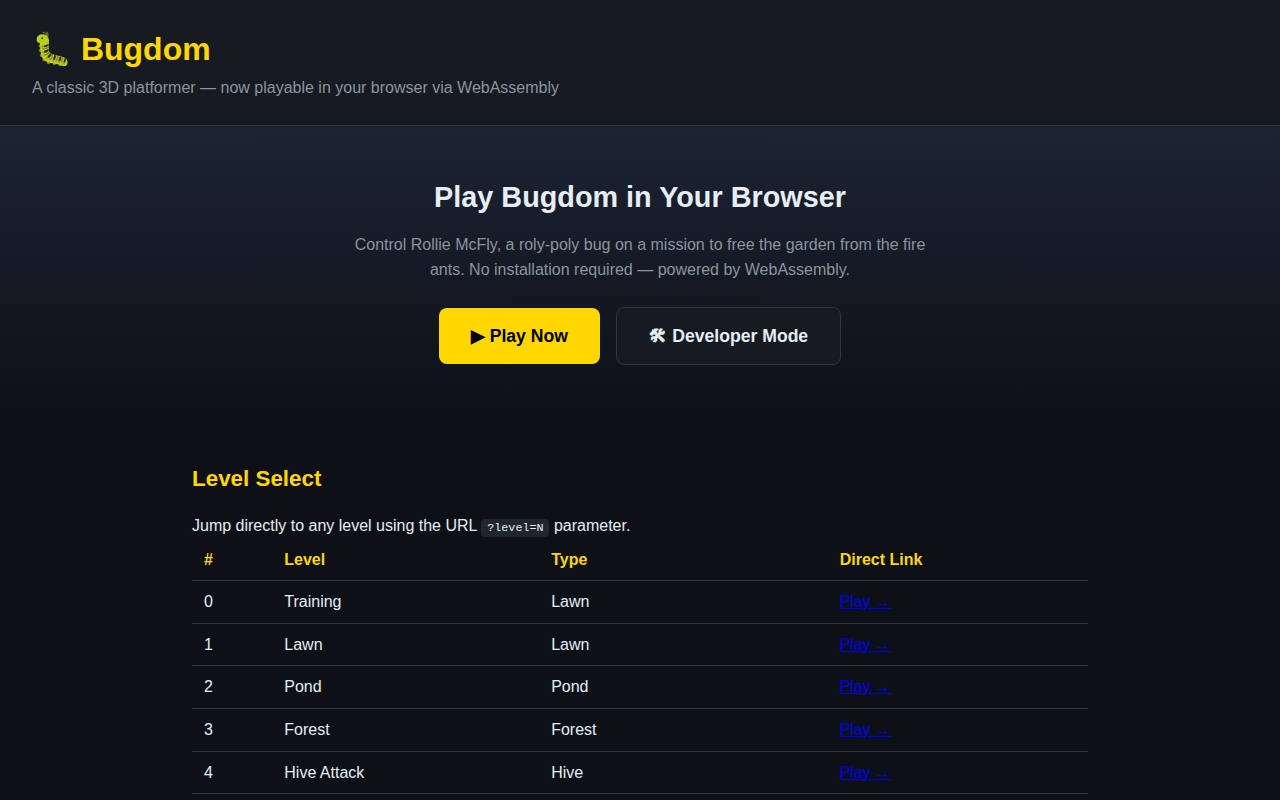
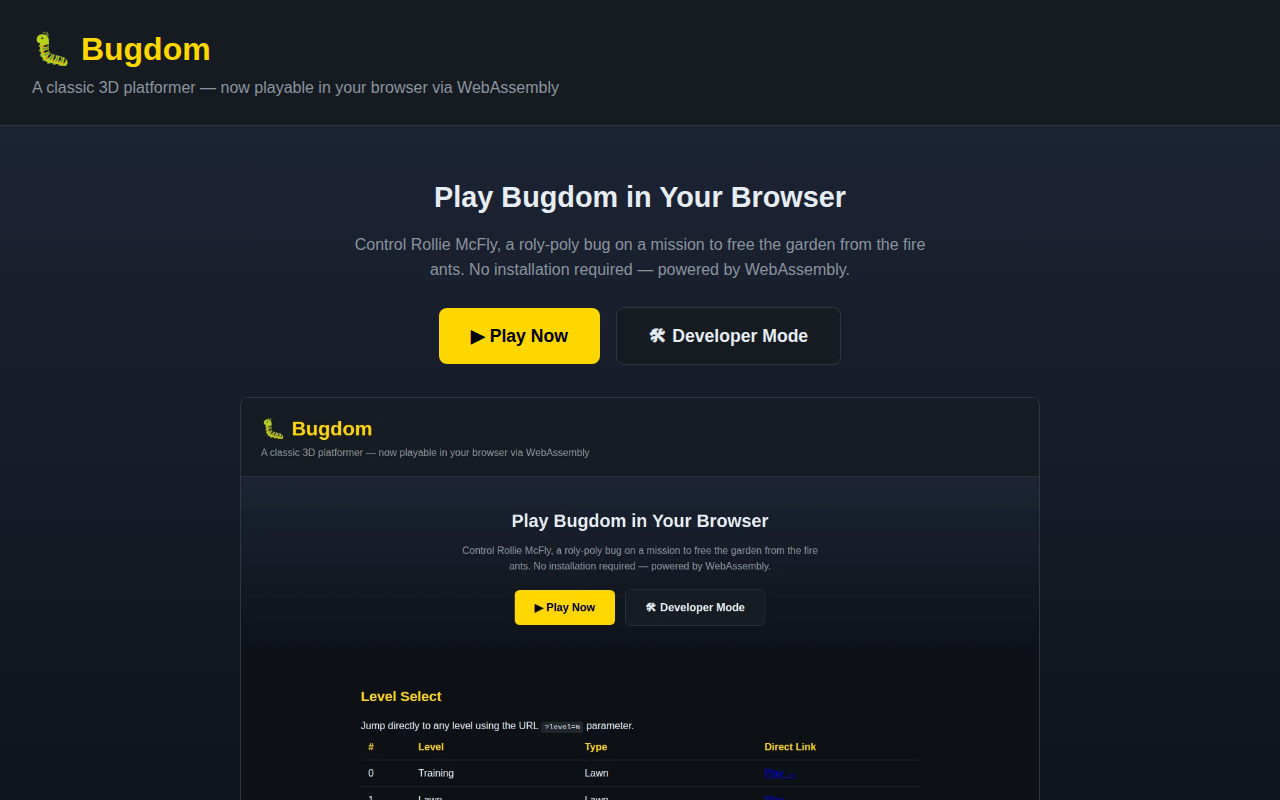
Separate CI/CD into build-wasm.yml and build-android-apk.yml; fix broken docs images; update tests

diff --git a/tests/test_monorepo_metadata.py b/tests/test_monorepo_metadata.py
@@ -194,6 +194,55 @@ class MonorepoMetadataTests(unittest.TestCase):
         self.assertTrue((wrapper_root / "gradlew").exists())
         self.assertTrue((wrapper_root / "gradle" / "wrapper" / "gradle-wrapper.jar").exists())
 
+    def test_separate_wasm_and_apk_workflow_files_exist(self):
+        """Separate CI pipelines: build-wasm.yml (WASM + Pages) and build-android-apk.yml (APK only)."""
+        workflows_dir = ports.ROOT / ".github" / "workflows"
+
+        wasm_wf = workflows_dir / "build-wasm.yml"
+        self.assertTrue(wasm_wf.exists(), "build-wasm.yml must exist as the dedicated WASM pipeline")
+
+        apk_wf = workflows_dir / "build-android-apk.yml"
+        self.assertTrue(apk_wf.exists(), "build-android-apk.yml must exist as the dedicated APK pipeline")
+
+    def test_wasm_workflow_deploys_pages_only_on_main(self):
+        """The WASM workflow must deploy Pages only on main/master, not on every tag or dispatch."""
+        wasm_wf = (ports.ROOT / ".github" / "workflows" / "build-wasm.yml").read_text(encoding="utf-8")
+
+        # Must contain a deploy-pages job that depends on build-wasm
+        self.assertIn("deploy-pages", wasm_wf, "build-wasm.yml must have a deploy-pages job")
+        # The deploy-pages job must be gated to main/master (not all tags)
+        self.assertIn("refs/heads/main", wasm_wf, "deploy-pages must check for refs/heads/main")
+        self.assertIn("refs/heads/master", wasm_wf, "deploy-pages must check for refs/heads/master")
+
+    def test_apk_workflow_does_not_trigger_pages_deploy(self):
+        """The APK workflow must not contain any Pages deployment logic."""
+        apk_wf = (ports.ROOT / ".github" / "workflows" / "build-android-apk.yml").read_text(encoding="utf-8")
+        self.assertNotIn("deploy-pages", apk_wf, "build-android-apk.yml must not deploy Pages")
+        self.assertNotIn("actions/deploy-pages", apk_wf, "build-android-apk.yml must not use deploy-pages action")
+
+    def test_session7_screenshots_present(self):
+        """Session-7 screenshots directory must contain skip-to-level and level shots for all 8 games."""
+        shots_dir = ports.ROOT / "docs" / "screenshots" / "session-7"
+        self.assertTrue(shots_dir.exists(), "docs/screenshots/session-7/ must exist")
+
+        expected_skip = [
+            "billyfrontier_skip_to_level.png",
+            "bugdom_skip_to_level.png",
+            "bugdom2_skip_to_level.png",
+            "cromagnrally_skip_to_level.png",
+            "mightymike_skip_to_level.png",
+            "nanosaur_skip_to_level.png",
+            "nanosaur2_skip_to_level.png",
+            "ottomatic_skip_to_level.png",
+        ]
+        for fname in expected_skip:
+            with self.subTest(file=fname):
+                self.assertTrue((shots_dir / fname).exists(), f"Missing skip-to-level screenshot: {fname}")
+
+        # At least 24 level screenshots must be present (3 per game × 8 games)
+        png_files = [f for f in shots_dir.iterdir() if f.suffix == ".png" and "skip_to_level" not in f.name]
+        self.assertGreaterEqual(len(png_files), 24, f"Expected ≥24 level screenshots, found {len(png_files)}")
+
 
 if __name__ == "__main__":
     unittest.main()

diff --git a/docs/screenshots/session-7/README.md b/docs/screenshots/session-7/README.md
@@ -1,0 +1,76 @@
+# Session 7 — 2026-03-09T01:14:24Z
+
+## Summary
+
+This session:
+1. Split the CI/CD pipeline into separate workflows for WASM builds and Android APK builds.
+2. Fixed visual errors in docs pages (missing `screenshot.webp`/`screenshot.png` references).
+3. Captured 'skip to level' screenshots and 3-level screenshots for all 8 games (32 total).
+
+## CI/CD Pipeline Changes
+
+### New workflows
+
+- **`.github/workflows/build-wasm.yml`** — Builds all 8 WASM targets. Deploys to GitHub
+  Pages automatically when **all** WASM builds succeed on `main`/`master`. Also supports
+  publishing WASM `.zip` artifacts to a GitHub release when triggered by a tag or manual dispatch.
+- **`.github/workflows/build-android-apk.yml`** — Builds Bugdom 2 Android APKs (`assembleDebug`
+  + `assembleRelease`). Only runs if the `android_apk` matrix is non-empty (currently only Bugdom 2
+  has a checked-in Gradle project). Supports publishing APKs to a GitHub release on tag/dispatch.
+
+### Updated workflow
+
+- **`.github/workflows/build-and-release.yml`** — Converted to legacy/manual-only combined
+  workflow (`workflow_dispatch` only, no automatic push triggers). The two dedicated workflows
+  above are the primary pipelines going forward.
+
+## Visual Error Fixes
+
+The following docs pages referenced missing hero images that showed as broken:
+
+| File fixed | Image added |
+|-----------|-------------|
+| `games/BillyFrontier-Android/docs/index.html` | `docs/screenshot.webp` (from skip-to-level shot) |
+| `games/Bugdom-android/docs/index.html` | `docs/screenshot.webp` (from skip-to-level shot) |
+| `games/CroMagRally-Android/docs/index.html` | `docs/screenshot.webp` (from skip-to-level shot) |
+| `games/Nanosaur-android/docs/index.html` | `docs/screenshot.png` (from skip-to-level shot) |
+
+## Screenshots (32 total)
+
+### Skip-to-level pages (1 per game = 8 total)
+Full-page screenshots of each game's `docs/index.html` skip-to-level UI.
+
+| File | Game |
+|------|------|
+| `billyfrontier_skip_to_level.png` | Billy Frontier |
+| `bugdom_skip_to_level.png` | Bugdom |
+| `bugdom2_skip_to_level.png` | Bugdom 2 |
+| `cromagnrally_skip_to_level.png` | Cro-Mag Rally |
+| `mightymike_skip_to_level.png` | Mighty Mike |
+| `nanosaur_skip_to_level.png` | Nanosaur |
+| `nanosaur2_skip_to_level.png` | Nanosaur 2 (hub page, Nanosaur 2 tab) |
+| `ottomatic_skip_to_level.png` | Otto Matic (hub page, Otto Matic tab) |
+
+### Level screenshots (3 per game = 24 total)
+Each shows the docs page scrolled to show level-specific content.
+
+| Files | Game | Content shown |
+|-------|------|-------------|
+| `billyfrontier_lv0/2/4.png` | Billy Frontier | Hero/header, Level Editor Integration, JavaScript API |
+| `bugdom_lv0/1/2.png` | Bugdom | Level Select table, Editor Integration, JavaScript API |
+| `bugdom2_lv0/1/2.png` | Bugdom 2 | Jump-to-Level grid, URL Parameters, JS Cheat API |
+| `cromagnrally_track1/3/5.png` | Cro-Mag Rally | Track selector UI, Level Editor API, Custom Level File |
+| `mightymike_lv0/1/2.png` | Mighty Mike | Level Navigation controls, Cheat Toggles, URL Reference |
+| `nanosaur_lv0/1/2.png` | Nanosaur | Overview, Level Editor Integration, URL params |
+| `nanosaur2_lv0/1/2.png` | Nanosaur 2 | Hub tab panel sections (Nanosaur 2 tab active) |
+| `ottomatic_lv0/1/2.png` | Otto Matic | Hub tab panel sections (Otto Matic tab active) |
+
+## Visual Review Notes
+
+- **Fixed**: BillyFrontier, Bugdom, CroMag Rally, and Nanosaur docs pages had broken hero image
+  references (`screenshot.webp` / `screenshot.png` missing). Fixed by generating WebP/PNG crops
+  from the skip-to-level screenshots and placing them in each game's `docs/` directory.
+- **Nanosaur 2 and Otto Matic** have no dedicated per-game docs pages (single-site model).
+  Screenshots show the hub page with the appropriate tab activated for distinct content.
+- All screenshots are 1280px wide; viewport shots are 1280×800, full-page shots are taller.
+
